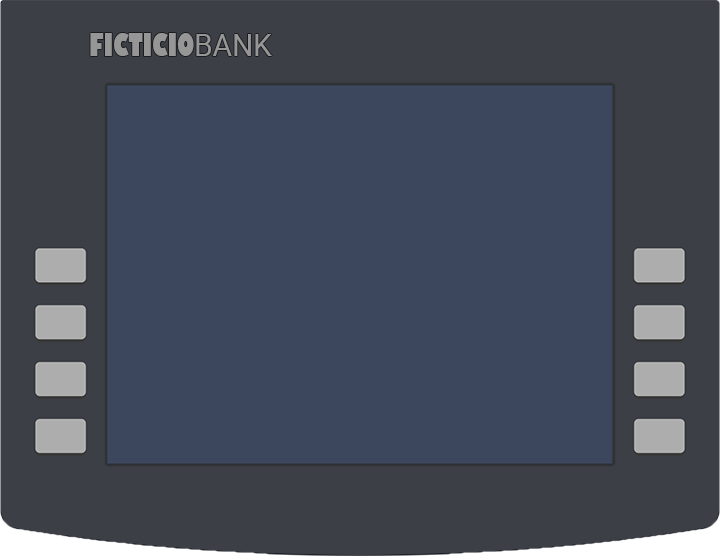
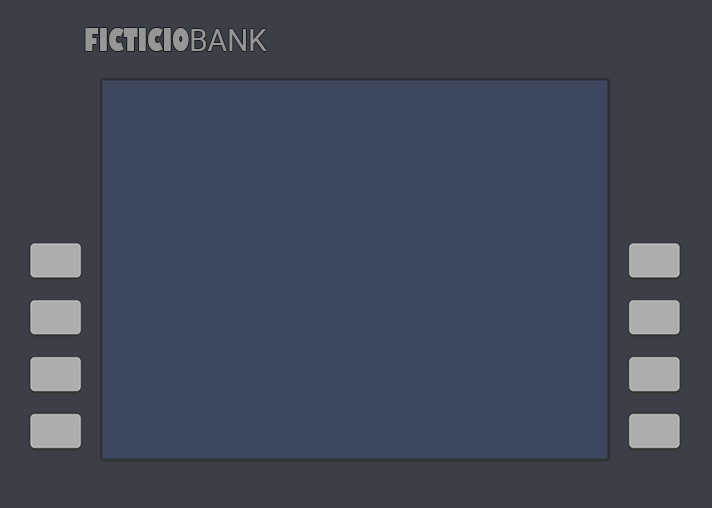
add new classes

diff --git a/src/main/java/com/diegomd/ficticiobank/layouts/ATM.java b/src/main/java/com/diegomd/ficticiobank/layouts/ATM.java
@@ -8,47 +8,8 @@ import java.awt.*;
 import java.awt.event.ActionEvent;
 import java.awt.event.ActionListener;
 
-public class ATM extends JFrame implements ActionListener {
+public class ATM extends JFrame {
     public ATM() {
-        this.add(new ATMStartMenu());
-
-        for (int i=1; i<=8; i++) {
-            LateralButton button = new LateralButton(i);
-            button.addActionListener(this);
-            this.add(button);
-        }
-
-        // ATM Window should be configured at the end to work properly
-        this.setLayout(null);
-        this.setDefaultCloseOperation(JFrame.DISPOSE_ON_CLOSE);
-        this.setSize(735, 556);
-        this.setLocationRelativeTo(null);
-        this.setResizable(false);
-        this.setTitle("FicticioBank ATM");
-        this.getContentPane().setBackground(new Color(0x73000000, true));
-        JLabel img = new JLabel(new ImageIcon("src/main/assets/atm-frame.png"));
-        img.setHorizontalAlignment(JLabel.LEFT);
-        img.setBounds(0,0,720,556);
-        this.add(img);
-        this.setVisible(true);
-    }
-
-    private void buttonsHandeler(int btnNumber) {
-        switch (btnNumber) {
-            case 1 -> System.out.println("1");
-            case 2 -> System.out.println("2");
-            case 3 -> System.out.println(3);
-            case 4 -> System.out.println(4);
-            case 5 -> System.out.println(5);
-            case 6 -> System.out.println(6);
-            case 7 -> System.out.println(7);
-            case 8 -> System.out.println(8);
-            default -> System.out.println("Err.: Button event unknown");
-        }
-    }
-
-    @Override
-    public void actionPerformed(ActionEvent e) {
-        buttonsHandeler((Integer.parseInt(e.getActionCommand())));
+        this.add(new StarterScreen());
     }
 }

diff --git a/src/main/java/com/diegomd/ficticiobank/layouts/services/ATMPanel.java b/src/main/java/com/diegomd/ficticiobank/layouts/services/ATMPanel.java
@@ -1,0 +1,53 @@
+package com.diegomd.ficticiobank.layouts.services;
+
+import com.diegomd.ficticiobank.layouts.components.LateralButton;
+
+import javax.swing.*;
+import java.awt.*;
+import java.awt.event.ActionEvent;
+import java.awt.event.ActionListener;
+
+public class ATMPanel extends JPanel implements ActionListener {
+
+    static final int ATM_WIDTH = 715;
+    static final int ATM_HEIGHT = 515;
+    static final Dimension SCREEN_SIZE = new Dimension(ATM_WIDTH, ATM_HEIGHT);
+    LateralButton button;
+    public ATMPanel() {
+
+        this.setLayout(new BorderLayout());
+        this.setFocusable(true);
+        // this.addKeyListener(new AL());
+        this.setPreferredSize(SCREEN_SIZE);
+        this.setBackground(new Color(0x4B4B4B));
+        JLabel img = new JLabel(new ImageIcon("src/main/assets/atm-frame.png"));
+
+        for (int i=1; i<=8; i++) {
+            button = new LateralButton(i);
+            button.addActionListener(this);
+            this.add(button);
+        }
+
+        this.add(img);
+    }
+
+    private void contextAnalyser(int actionCommand) {
+        switch (actionCommand) {
+            case 1 -> System.out.println("1");
+            case 2 -> System.out.println("2");
+            case 3 -> System.out.println(3);
+            case 4 -> System.out.println(4);
+            case 5 -> System.out.println(5);
+            case 6 -> System.out.println(6);
+            case 7 -> System.out.println(7);
+            case 8 -> System.out.println(8);
+            default -> System.out.println("Err.: Button event unknown");
+        }
+    }
+
+    @Override
+    public void actionPerformed(ActionEvent e) {
+        int actionCommand = Integer.parseInt(e.getActionCommand());
+        contextAnalyser(actionCommand);
+    }
+}

diff --git a/src/main/java/com/diegomd/ficticiobank/layouts/components/LateralButton.java b/src/main/java/com/diegomd/ficticiobank/layouts/components/LateralButton.java
@@ -1,18 +1,20 @@
 package com.diegomd.ficticiobank.layouts.components;
 
 import javax.swing.*;
+import java.awt.*;
 
 public class LateralButton extends JButton {
     public LateralButton(int buttonNumber) {
+
         switch (buttonNumber) {
-            case 1 -> this.setBounds(35,248,53, 35);
-            case 2 -> this.setBounds(35,305,53, 35);
-            case 3 -> this.setBounds(35,362,53, 35);
-            case 4 -> this.setBounds(35,419,53, 35);
-            case 5 -> this.setBounds(633,248,53, 35);
-            case 6 -> this.setBounds(633,305,53, 35);
-            case 7 -> this.setBounds(633,362,53, 35);
-            case 8 -> this.setBounds(633,419,53, 35);
+            case 1 -> this.setBounds(30,246,53, 35);
+            case 2 -> this.setBounds(30,303,53, 35);
+            case 3 -> this.setBounds(30,360,53, 35);
+            case 4 -> this.setBounds(30,416,53, 35);
+            case 5 -> this.setBounds(629,246,53, 35);
+            case 6 -> this.setBounds(629,303,53, 35);
+            case 7 -> this.setBounds(629,360,53, 35);
+            case 8 -> this.setBounds(629,417,53, 35);
             default -> System.out.println("Err.: No such button number");
         }
         this.setActionCommand(String.valueOf(buttonNumber));

diff --git a/src/main/java/com/diegomd/ficticiobank/App.java b/src/main/java/com/diegomd/ficticiobank/App.java
@@ -4,13 +4,10 @@ import com.diegomd.ficticiobank.database.DataBase;
 import com.diegomd.ficticiobank.entities.Cliente;
 import com.diegomd.ficticiobank.entities.Conta;
 import com.diegomd.ficticiobank.layouts.ATM;
+import com.diegomd.ficticiobank.layouts.ATMFrame;
 import com.diegomd.ficticiobank.model.Model;
 import com.diegomd.ficticiobank.view.View;
 
-/**
- * Hello world!
- *
- */
 public class App extends Model {
     public static void main( String[] args ) {
 //        View view = new View();
@@ -20,7 +17,8 @@ public class App extends Model {
 //
 //        view.print("cabecalho");
 //        menuPrincipal(db);
-        ATM atm = new ATM();
-
+//        //ATM atm = new ATM();
+//        // ATM atm2 = new ATM();
+        new ATMFrame();
     }
 }

diff --git a/src/main/java/com/diegomd/ficticiobank/layouts/ATMFrame.java b/src/main/java/com/diegomd/ficticiobank/layouts/ATMFrame.java
@@ -1,0 +1,20 @@
+package com.diegomd.ficticiobank.layouts;
+
+import com.diegomd.ficticiobank.layouts.services.ATMPanel;
+
+import javax.swing.*;
+import java.awt.*;
+
+public class ATMFrame extends JFrame {
+    ATMPanel panel;
+    public ATMFrame() {
+        panel = new ATMPanel();
+        this.add(panel);
+        this.setTitle("FicticioBank ATM");
+        this.setResizable(false);
+        this.setDefaultCloseOperation(JFrame.DISPOSE_ON_CLOSE);
+        this.pack();
+        this.setVisible(true);
+        this.setLocationRelativeTo(null);
+    }
+}

diff --git a/src/main/java/com/diegomd/ficticiobank/database/USERS_DB.java b/src/main/java/com/diegomd/ficticiobank/database/USERS_DB.java
@@ -1,0 +1,16 @@
+package com.diegomd.ficticiobank.database;
+
+import com.diegomd.ficticiobank.entities.account.AccountModel;
+import com.diegomd.ficticiobank.entities.client.ClientModel;
+
+import java.time.LocalDateTime;
+import java.util.ArrayList;
+import java.util.List;
+import java.util.UUID;
+
+public class USERS_DB {
+    private static final List<ClientModel> users = new ArrayList<>();
+    public static void save(ClientModel client) {
+        users.add(client);
+    }
+}

diff --git a/src/main/java/com/diegomd/ficticiobank/entities/client/ClientModel.java b/src/main/java/com/diegomd/ficticiobank/entities/client/ClientModel.java
@@ -1,0 +1,16 @@
+package com.diegomd.ficticiobank.entities.client;
+
+import com.diegomd.ficticiobank.entities.account.AccountModel;
+
+import java.time.LocalDateTime;
+import java.util.List;
+import java.util.UUID;
+
+public class ClientModel {
+    private UUID id;
+    private long cpf;
+    private String fullName;
+    private String password;
+    private List<AccountModel> accounts;
+    private LocalDateTime createdAt;
+}

diff --git a/src/main/java/com/diegomd/ficticiobank/database/STATEMENTS_DB.java b/src/main/java/com/diegomd/ficticiobank/database/STATEMENTS_DB.java
@@ -1,0 +1,13 @@
+package com.diegomd.ficticiobank.database;
+
+import com.diegomd.ficticiobank.entities.account.BankingOperation;
+
+import java.util.ArrayList;
+import java.util.List;
+
+public class STATEMENTS_DB {
+    private static final List<BankingOperation> operations = new ArrayList<>();
+    public static void save(BankingOperation operation) {
+        operations.add(operation);
+    }
+}

diff --git a/src/main/java/com/diegomd/ficticiobank/entities/account/AccountModel.java b/src/main/java/com/diegomd/ficticiobank/entities/account/AccountModel.java
@@ -1,0 +1,14 @@
+package com.diegomd.ficticiobank.entities.account;
+
+import java.util.List;
+import java.util.UUID;
+
+public class AccountModel {
+    private UUID id;
+    private UUID accountHolderId;
+    private AccountTypes type;
+    private int number;
+    private boolean positiveBalance;
+    private double balance;
+    private List<BankingOperation> statement;
+}

diff --git a/src/main/java/com/diegomd/ficticiobank/layouts/StarterScreen.java b/src/main/java/com/diegomd/ficticiobank/layouts/StarterScreen.java
@@ -1,0 +1,10 @@
+package com.diegomd.ficticiobank.layouts;
+
+import com.diegomd.ficticiobank.layouts.components.DisplayArea;
+import com.diegomd.ficticiobank.layouts.components.Screen;
+
+public class StarterScreen extends DisplayArea {
+    public StarterScreen() {
+        this.add(new Screen("src/main/assets/ATM.png"));
+    }
+}

diff --git a/src/main/java/com/diegomd/ficticiobank/model/Model.java b/src/main/java/com/diegomd/ficticiobank/model/Model.java
@@ -12,6 +12,8 @@ import java.util.regex.Pattern;
 public class Model {
     static View view = new View();
 
+    public static void atmMenu() {}
+
     public static void menuPrincipal(DataBase db) {
         view.print("menu-principal");
         int opc = Integer.parseInt(obterEtradaDados("^[1-7]{1}$"));

diff --git a/src/main/java/com/diegomd/ficticiobank/database/ACCOUNTS_DB.java b/src/main/java/com/diegomd/ficticiobank/database/ACCOUNTS_DB.java
@@ -1,0 +1,10 @@
+package com.diegomd.ficticiobank.database;
+
+import com.diegomd.ficticiobank.entities.account.AccountModel;
+
+import java.util.ArrayList;
+import java.util.List;
+
+public class ACCOUNTS_DB {
+    public static final List<AccountModel> accounts = new ArrayList<>();
+}
